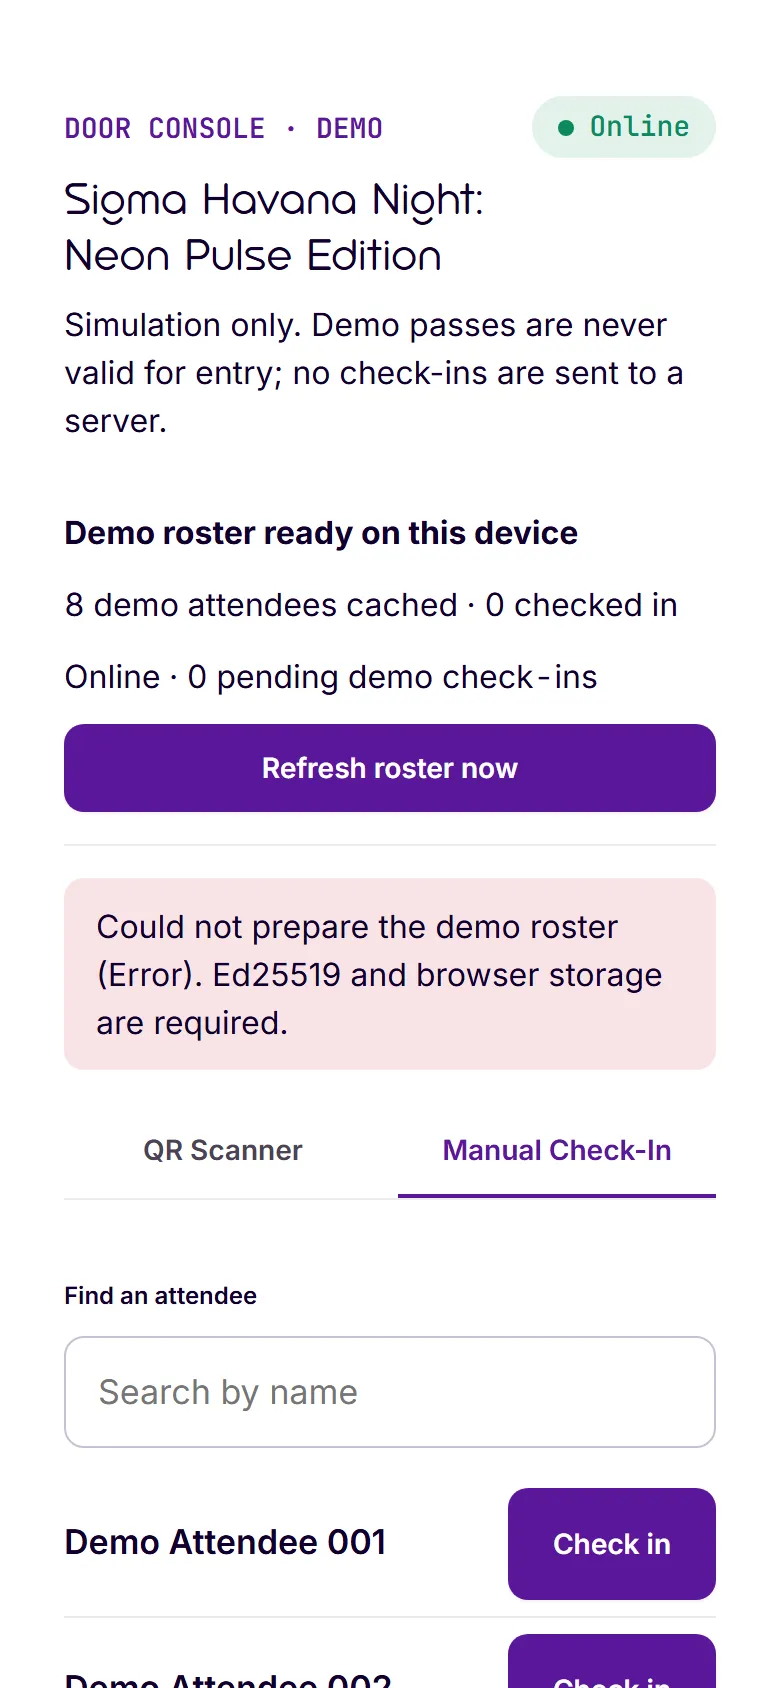
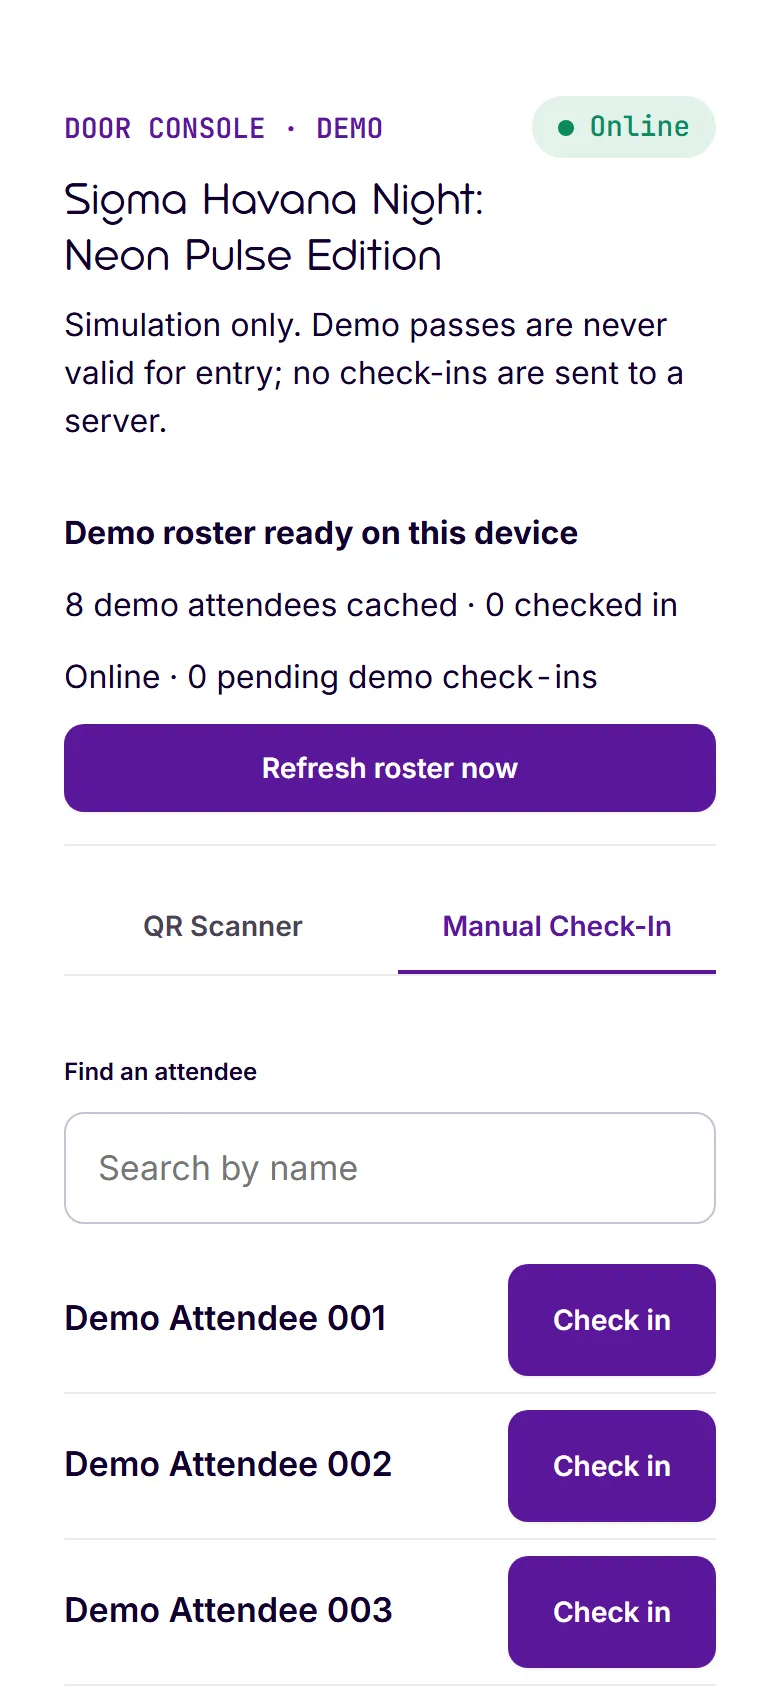
fix(events): recapture landing screens without the roster error [S4-02]
The capture blocked service workers, so the door console could not save itself offline and showed an error under a ready roster. Allow them for the door capture, fail on any error text, and drop the unused pass screen.

diff --git a/public/demo/README.md b/public/demo/README.md
@@ -44,7 +44,7 @@ Never use real students' photos without consent (NDPA 2023).
 
 ## screens/ — captured demo product screens
 
-The 780×1688 WebP files show the attendee feed, a confirmed demo pass, the organizer dashboard,
-and the Manual Check-In tab. Start a local production build with `NEXT_PUBLIC_DEMO_MODE=true`
+The 780×1688 WebP files show the attendee feed and the door console's Manual Check-In tab.
+Neither shows a date or time, because demo dates move with the calendar. Start a local production build with `NEXT_PUBLIC_DEMO_MODE=true`
 and run `node scripts/capture-demo-screens.mjs` with that variable set. The script uses
 `http://localhost:3104` by default. Set `E2E_BASE_URL` to use another local port.
